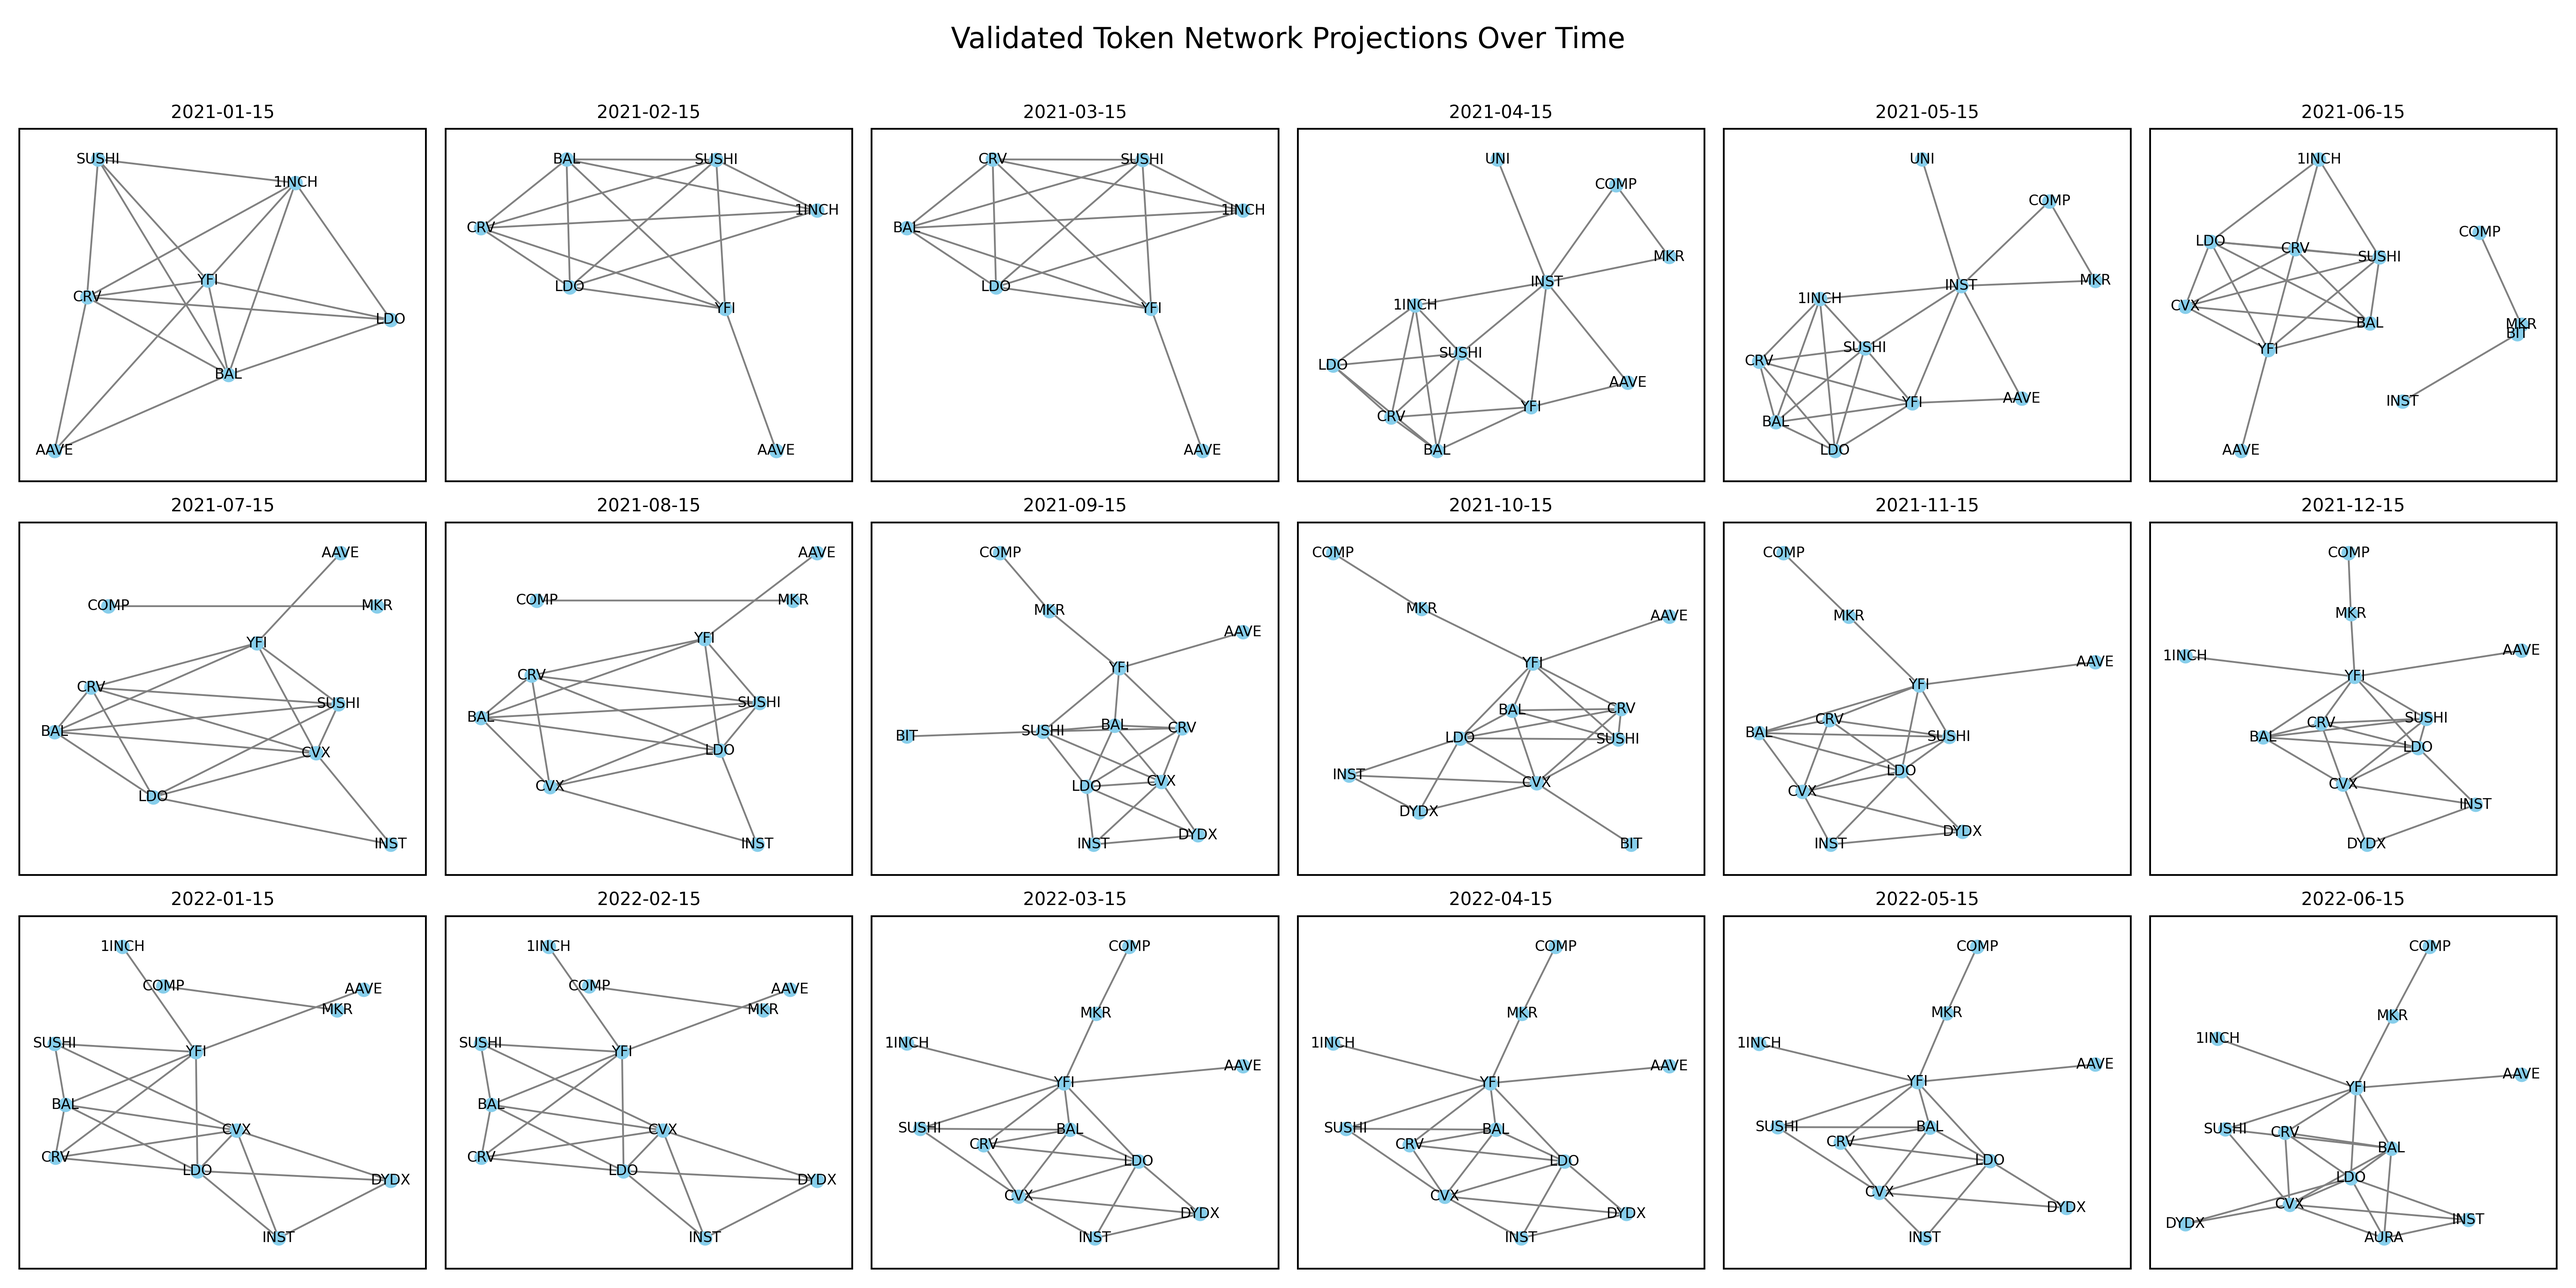
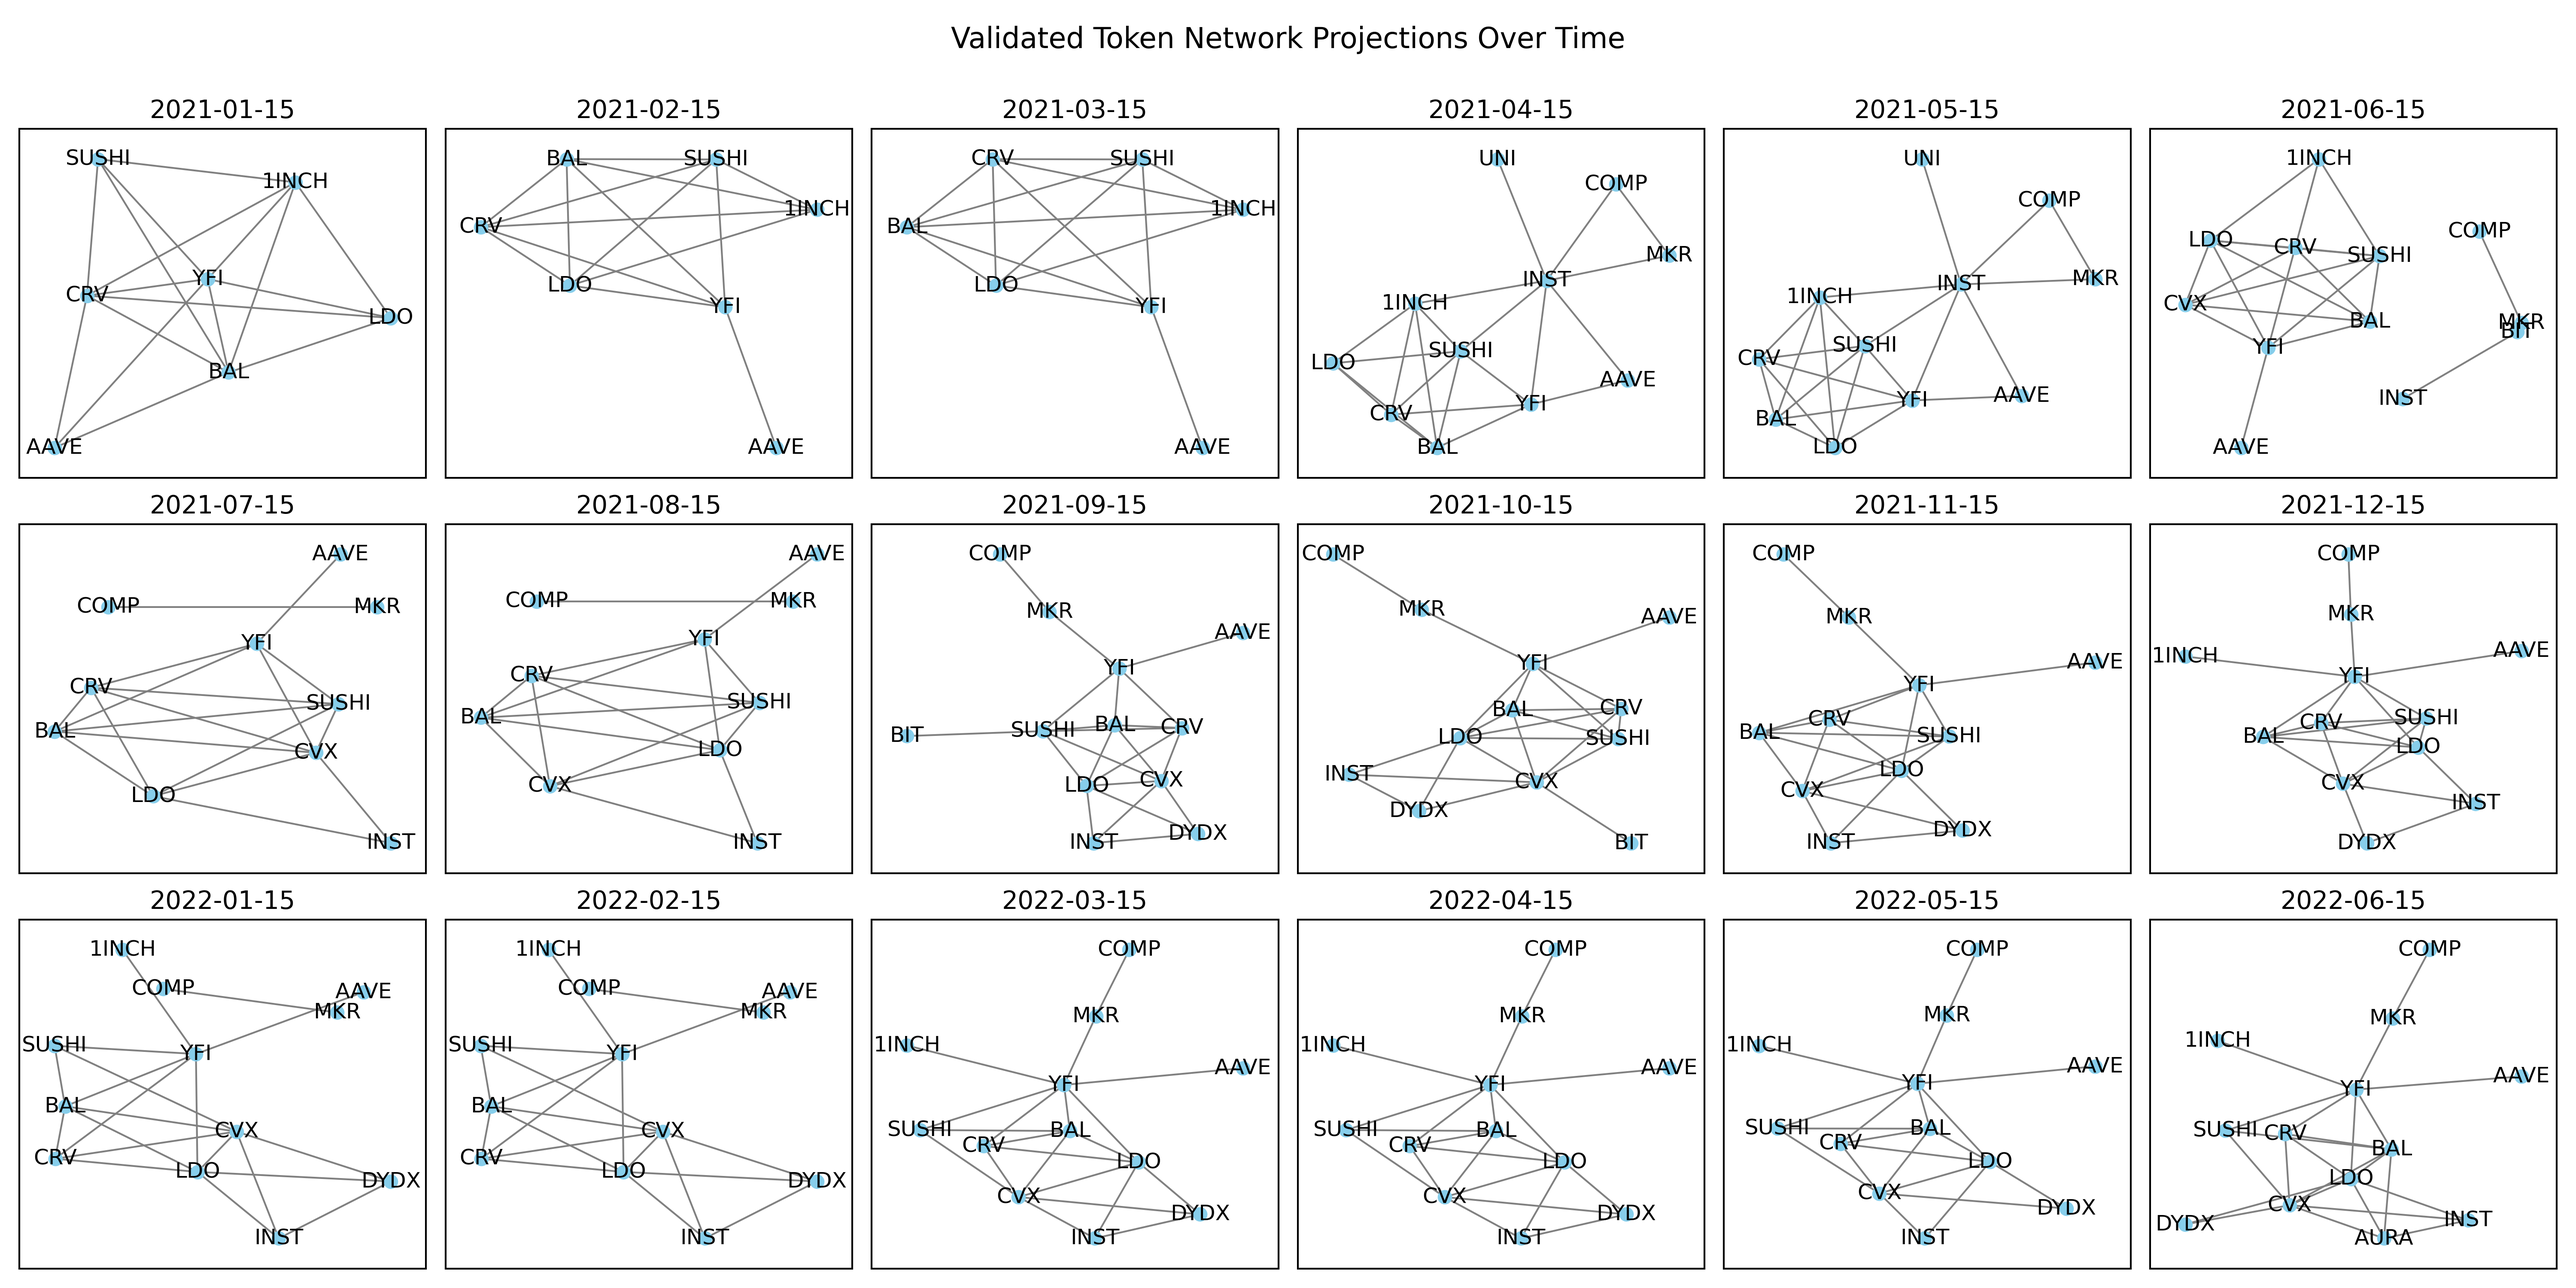
fix: label size of token projection chart

diff --git a/src/visualisations/token_network_projections_visualisations.py b/src/visualisations/token_network_projections_visualisations.py
@@ -107,8 +107,8 @@ def visualize_network_grid(graphs, dates, address_to_symbol, output_directory, l
         pos = layout(relabeled_graph)  
         
         # Draw the graph with relabeled nodes
-        nx.draw(relabeled_graph, pos, ax=ax, with_labels=True, node_size=50, node_color='skyblue', edge_color='gray', font_size=8)
-        ax.set_title(dates[snapshot], fontsize=10)
+        nx.draw(relabeled_graph, pos, ax=ax, with_labels=True, node_size=50, node_color='skyblue', edge_color='gray', font_size=12)
+        ax.set_title(dates[snapshot], fontsize=14)
         ax.set_axis_off()  # Hide axis for clarity
         
         # Draw a rectangle around the plot area
